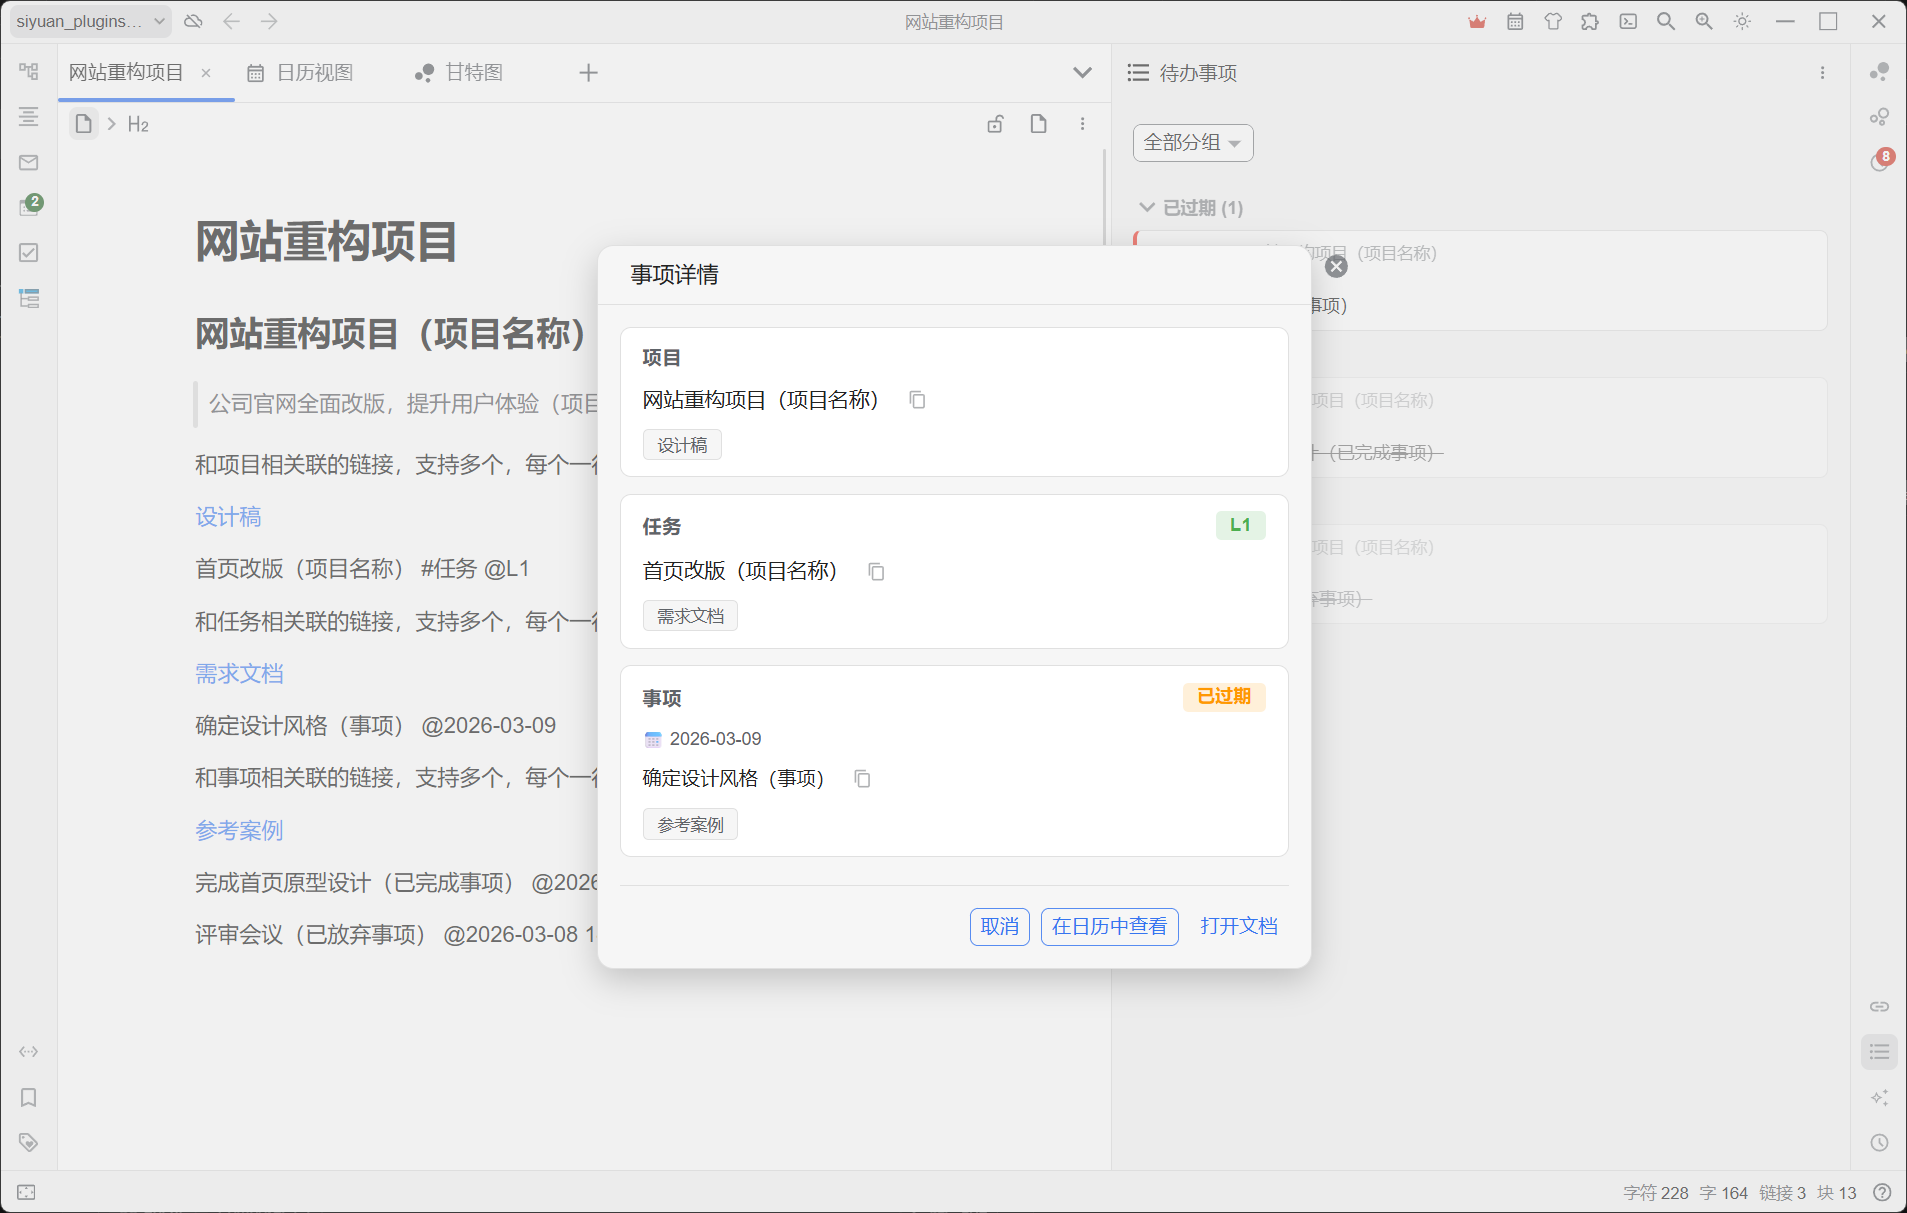
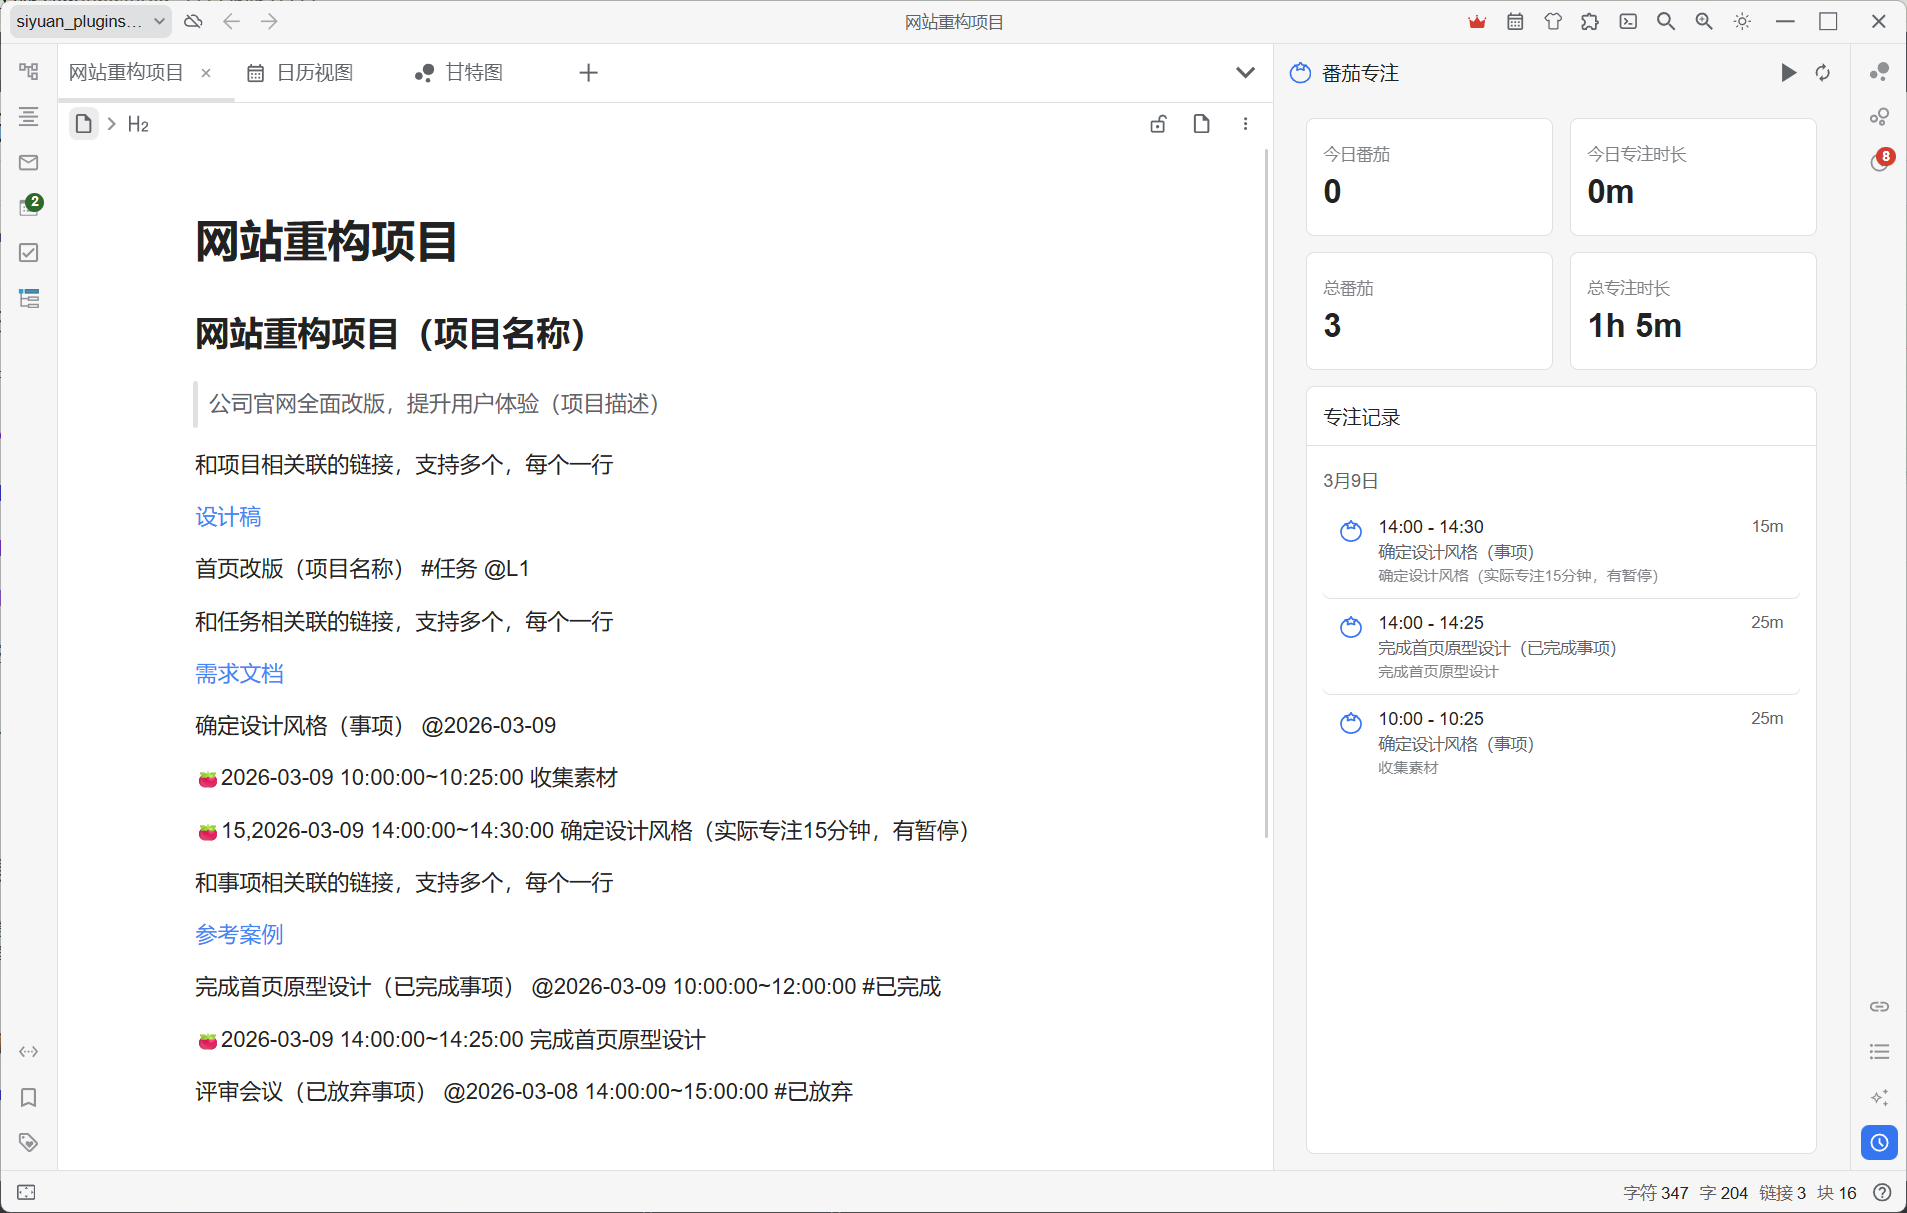
feat: 添加番茄钟总专注时长显示功能
在事项详情弹窗中添加番茄钟总专注时长显示，支持中英文国际化，并更新相关文档图片链接。修改了模型定义、数据转换器和弹窗工具以支持新功能。

diff --git a/src/utils/dialog.ts b/src/utils/dialog.ts
@@ -3,7 +3,7 @@
  * 提供统一的弹框创建和管理
  */
 import { Dialog } from 'siyuan';
-import type { Item, CalendarEvent } from '@/types/models';
+import type { Item, CalendarEvent, PomodoroRecord } from '@/types/models';
 import { t } from '@/i18n';
 import { formatDateTime, formatDateLabel, formatTimeRange, calculateDuration } from './dateUtils';
 import { openDocumentAtLine } from './fileUtils';
@@ -79,6 +79,24 @@ function createLinksRow(label: string, links: Array<{ name: string; url: string 
       <div class="sy-dialog-links">${linksHtml}</div>
     </div>
   `;
+}
+
+/**
+ * 计算专注总时长（分钟）
+ */
+function calculateTotalFocusMinutes(pomodoros?: PomodoroRecord[]): number {
+  if (!pomodoros?.length) return 0;
+  return pomodoros.reduce((sum, p) => sum + (p.actualDurationMinutes ?? p.durationMinutes), 0);
+}
+
+/**
+ * 格式化专注时长为可读字符串
+ */
+function formatFocusDuration(minutes: number): string {
+  if (minutes < 60) return `${minutes}分钟`;
+  const h = Math.floor(minutes / 60);
+  const m = minutes % 60;
+  return m > 0 ? `${h}小时${m}分钟` : `${h}小时`;
 }
 
 /**
@@ -185,6 +203,10 @@ export function showItemDetailModal(item: Item): Dialog {
     `<a href="${link.url}" target="_blank" class="sy-dialog-link-tag">${link.name}</a>`
   ).join('');
 
+  // 专注总时间
+  const totalFocusMinutes = calculateTotalFocusMinutes(item.pomodoros);
+  const focusTotalTimeDisplay = totalFocusMinutes > 0 ? formatFocusDuration(totalFocusMinutes) : '';
+
   content += `
     <div class="sy-dialog-card sy-dialog-item-card">
       <div class="sy-dialog-card-title">
@@ -202,6 +224,13 @@ export function showItemDetailModal(item: Item): Dialog {
               <span class="sy-dialog-icon b3-tooltips b3-tooltips__n" aria-label="${t('todo').duration}">⏱</span>
               ${duration}
               <span class="sy-dialog-copy-btn b3-tooltips b3-tooltips__nw" data-copy="${duration}" aria-label="${t('common').copy}">${copyIconSvg}</span>
+            </span>
+          ` : ''}
+          ${focusTotalTimeDisplay ? `
+            <span class="sy-dialog-duration-text">
+              <span class="sy-dialog-icon b3-tooltips b3-tooltips__n" aria-label="${t('todo').focusTotalTime}">🍅</span>
+              ${focusTotalTimeDisplay}
+              <span class="sy-dialog-copy-btn b3-tooltips b3-tooltips__nw" data-copy="${focusTotalTimeDisplay}" aria-label="${t('common').copy}">${copyIconSvg}</span>
             </span>
           ` : ''}
         </div>
@@ -418,6 +447,10 @@ export function showEventDetailModal(event: CalendarEvent): Dialog {
     `<a href="${link.url}" target="_blank" class="sy-dialog-link-tag">${link.name}</a>`
   ).join('');
 
+  // 专注总时间
+  const totalFocusMinutes = calculateTotalFocusMinutes(props.pomodoros);
+  const focusTotalTimeDisplay = totalFocusMinutes > 0 ? formatFocusDuration(totalFocusMinutes) : '';
+
   content += `
     <div class="sy-dialog-card sy-dialog-item-card">
       <div class="sy-dialog-card-title">
@@ -435,6 +468,13 @@ export function showEventDetailModal(event: CalendarEvent): Dialog {
               <span class="sy-dialog-icon b3-tooltips b3-tooltips__n" aria-label="${t('todo').duration}">⏱</span>
               ${duration}
               <span class="sy-dialog-copy-btn b3-tooltips b3-tooltips__nw" data-copy="${duration}" aria-label="${t('common').copy}">${copyIconSvg}</span>
+            </span>
+          ` : ''}
+          ${focusTotalTimeDisplay ? `
+            <span class="sy-dialog-duration-text">
+              <span class="sy-dialog-icon b3-tooltips b3-tooltips__n" aria-label="${t('todo').focusTotalTime}">🍅</span>
+              ${focusTotalTimeDisplay}
+              <span class="sy-dialog-copy-btn b3-tooltips b3-tooltips__nw" data-copy="${focusTotalTimeDisplay}" aria-label="${t('common').copy}">${copyIconSvg}</span>
             </span>
           ` : ''}
         </div>

diff --git a/src/utils/dataConverter.ts b/src/utils/dataConverter.ts
@@ -91,7 +91,8 @@ export class DataConverter {
         date: item.date,
         originalStartDateTime: item.startDateTime,
         originalEndDateTime: item.endDateTime,
-        siblingItems: item.siblingItems
+        siblingItems: item.siblingItems,
+        pomodoros: item.pomodoros
       }
     };
   }
@@ -198,7 +199,8 @@ export class DataConverter {
                   date: item.date,
                   originalStartDateTime: item.startDateTime,
                   originalEndDateTime: item.endDateTime,
-                  siblingItems: item.siblingItems
+                  siblingItems: item.siblingItems,
+                  pomodoros: item.pomodoros
                 }
               });
             }

diff --git a/src/components/gantt/GanttView.vue b/src/components/gantt/GanttView.vue
@@ -192,7 +192,8 @@ const handleGanttTaskClick = (id: string | number) => {
       date: props.date,
       originalStartDateTime: props.originalStartDateTime,
       originalEndDateTime: props.originalEndDateTime,
-      siblingItems: props.siblingItems
+      siblingItems: props.siblingItems,
+      pomodoros: props.pomodoros
     }
   };
   showEventDetailModal(eventData);

diff --git a/src/types/models.ts b/src/types/models.ts
@@ -141,6 +141,7 @@ export interface CalendarEvent {
       startDateTime?: string;
       endDateTime?: string;
     }>;
+    pomodoros?: PomodoroRecord[];
   };
 }
 
@@ -166,6 +167,7 @@ export interface GanttTaskExtendedProps {
     startDateTime?: string;
     endDateTime?: string;
   }>;
+  pomodoros?: PomodoroRecord[];
 }
 
 // 甘特图数据

diff --git a/README_zh_CN.md b/README_zh_CN.md
@@ -19,7 +19,7 @@
 
 ![番茄钟专注中](https://raw.githubusercontent.com/MoonBottle/siyuan-plugin-bullet-journal/main/docs/user-guide/images/pomodoro-active.png)
 
-![番茄钟记录](https://raw.githubusercontent.com/MoonBottle/siyuan-plugin-bullet-journal/main/docs/user-guide/images/pomodoro-dock.png)
+![pomodorodock.png](https://b3logfile.com/file/2026/03/pomodoro-dock-CqX5NnE.png)
 
 - **甘特图增强**：
   - 任务文字显示：任务条上直接显示任务名称，悬停显示完整信息
@@ -88,11 +88,17 @@
 
 确定设计风格（事项） @2026-03-09
 
+🍅2026-03-09 10:00:00~10:25:00 收集素材
+
+🍅15,2026-03-09 14:00:00~14:30:00 确定设计风格（实际专注15分钟，有暂停）
+
 和事项相关联的链接，支持多个，每个一行
 
 [参考案例](https://example.com/ref)
 
 完成首页原型设计（已完成事项） @2026-03-09 10:00:00~12:00:00 #已完成
+
+🍅2026-03-09 14:00:00~14:25:00 完成首页原型设计
 
 评审会议（已放弃事项） @2026-03-08 14:00:00~15:00:00 #已放弃
 ```
@@ -103,18 +109,21 @@
 - `@L1/@L2/@L3` - 任务层级，可选标记，默认层级为 L1
 - `@YYYY-MM-DD` / `@YYYY-MM-DD HH:mm:ss~HH:mm:ss` - 事项日期（必选），带日期的行会被识别为事项；可附加时间范围表示具体时间段
 - `#已完成` / `#done` / `#已放弃` / `#abandoned` - 事项状态（可选），标记事项为已完成或已放弃状态
+- `🍅[N,]YYYY-MM-DD HH:mm:ss~HH:mm:ss` - 番茄钟记录（可选），写在事项下方；N 为实际专注分钟数（不含暂停时间），可选
 
 ### 2. 在视图中查看
 
-插件自动解析笔记中的标记，在日历、甘特图、项目列表、待办事项 中展示：
+插件自动解析笔记中的标记，在日历、甘特图、待办事项 中展示：
 
-![日历视图](https://raw.githubusercontent.com/MoonBottle/siyuan-plugin-bullet-journal/main/docs/user-guide/images/calendar-view.png)
+![calendarview.png](https://b3logfile.com/file/2026/03/calendar-view-p1U6g2E.png)
 
-![待办事项](https://raw.githubusercontent.com/MoonBottle/siyuan-plugin-bullet-journal/main/docs/user-guide/images/todo-dock.png)
+![tododock.png](https://b3logfile.com/file/2026/03/todo-dock-kBvFpBt.png)
 
-![甘特图](https://raw.githubusercontent.com/MoonBottle/siyuan-plugin-bullet-journal/main/docs/user-guide/images/gantt-view.png)
+![ganttview.png](https://b3logfile.com/file/2026/03/gantt-view-EMdc45N.png)
 
-![事项详情](https://raw.githubusercontent.com/MoonBottle/siyuan-plugin-bullet-journal/main/docs/user-guide/images/item-modal.png)
+![pomodorodock.png](https://b3logfile.com/file/2026/03/pomodoro-dock-CqX5NnE.png)
+
+![itemmodal.png](https://b3logfile.com/file/2026/03/item-modal-EC8678D.png)
 
 点击视图中的任务，可直接跳转到笔记中对应位置。
 
